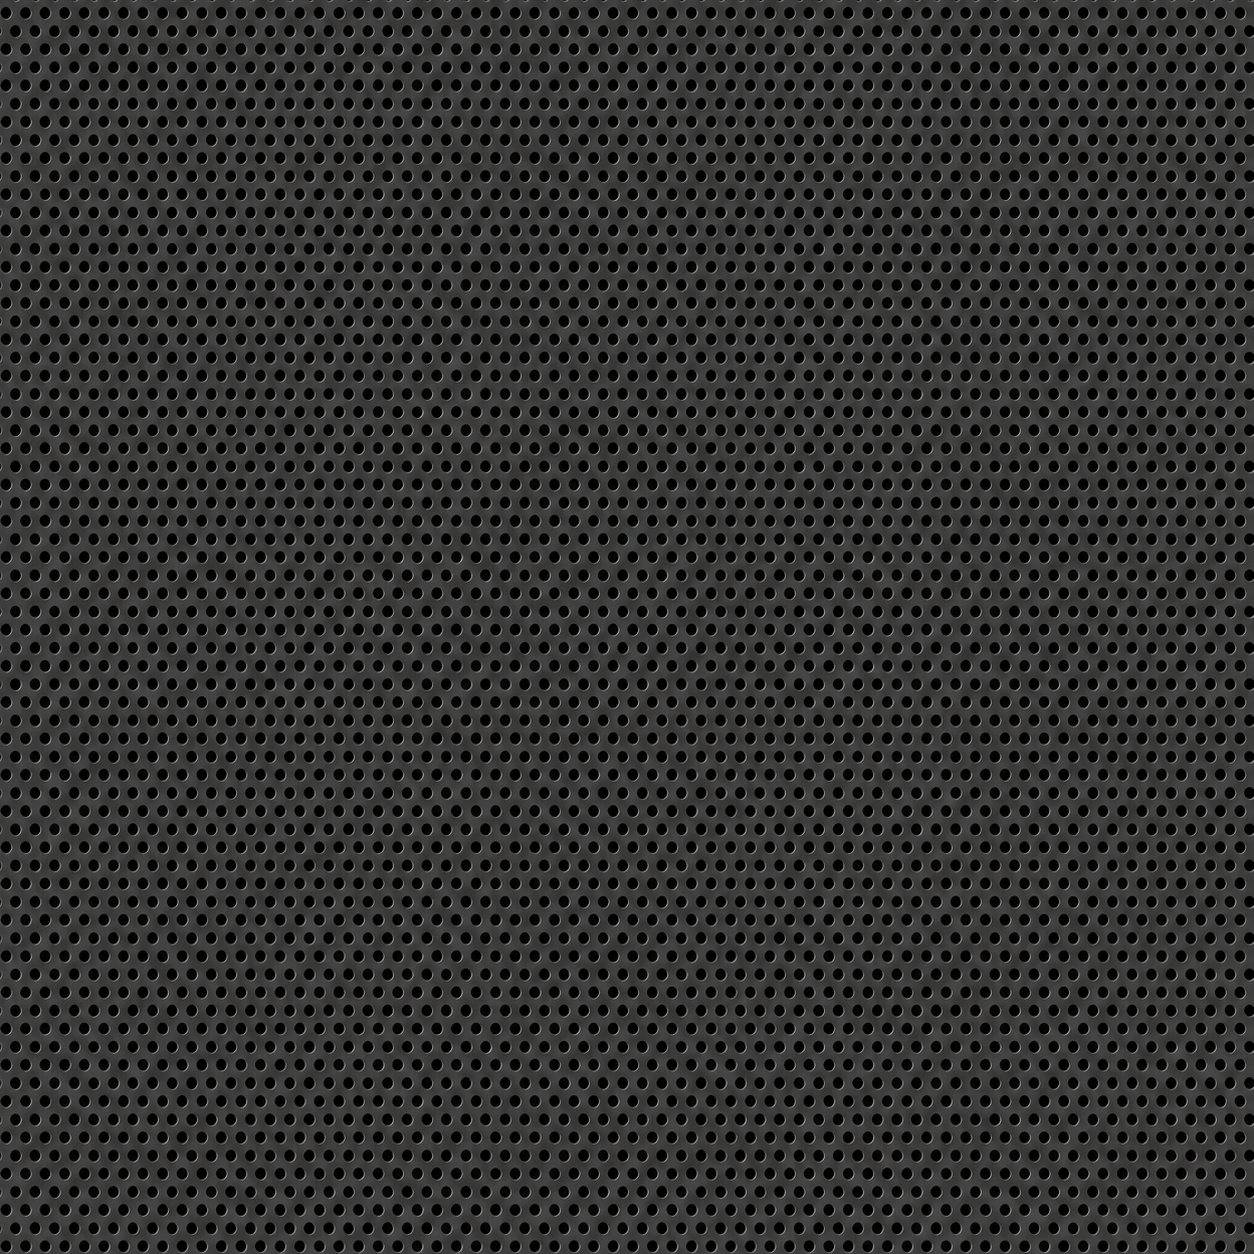
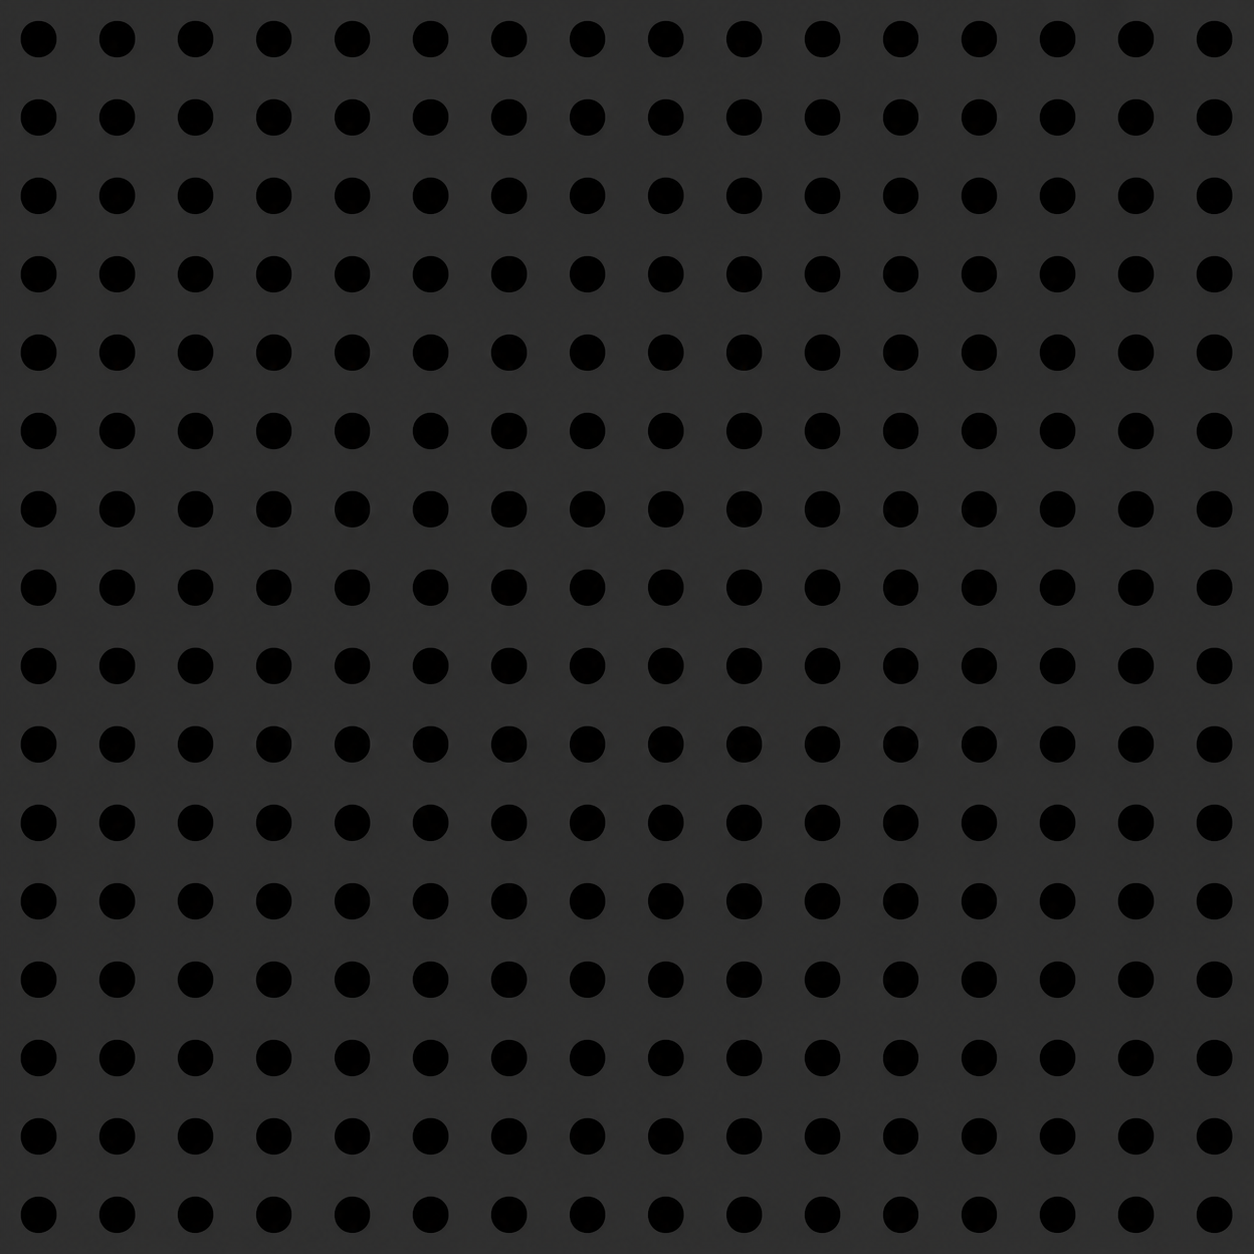
Fit generated grille within widget asset limit

diff --git a/examples/retro-player-shell/widget.tsx b/examples/retro-player-shell/widget.tsx
@@ -11,7 +11,7 @@ export default widget({
     <row class="justify-between items-center">
       <column class="gap-1">
         <text class="text-xs tracking-widest text-amber-300 font-[GeistPixel-Square] text-shadow-sm">WEAVER HI-FI SYSTEM</text>
-        <text class="text-sm text-stone-400 font-mono">MODEL WR-04 · STATIC SIGNAL</text>
+        <text class="text-sm text-stone-400 font-mono">MODEL WR-04 / STATIC SIGNAL</text>
       </column>
       <panel class="p-2 rounded-lg border border-amber-500 bg-black shadow-inner">
         <text class="text-sm tabular-nums tracking-wide text-amber-300 font-[GeistPixel-Square] text-shadow">10:24 PM</text>
@@ -30,7 +30,7 @@ export default widget({
         </row>
         <column class="gap-2">
           <text class="text-3xl tracking-wide text-white font-[GeistPixel-Square] font-bold text-shadow-lg">SECOND NATURE</text>
-          <text class="text-sm tracking-wider text-amber-200 font-[GeistPixel-Square] text-shadow-md">CHANNEL SURFING · SIDE A</text>
+          <text class="text-sm tracking-wider text-amber-200 font-[GeistPixel-Square] text-shadow-md">CHANNEL SURFING / SIDE A</text>
           <panel class="w-full h-2 rounded-full bg-black/70 border border-white/20 overflow-hidden">
             <panel class="w-1/2 h-full rounded-full bg-amber-400" />
           </panel>